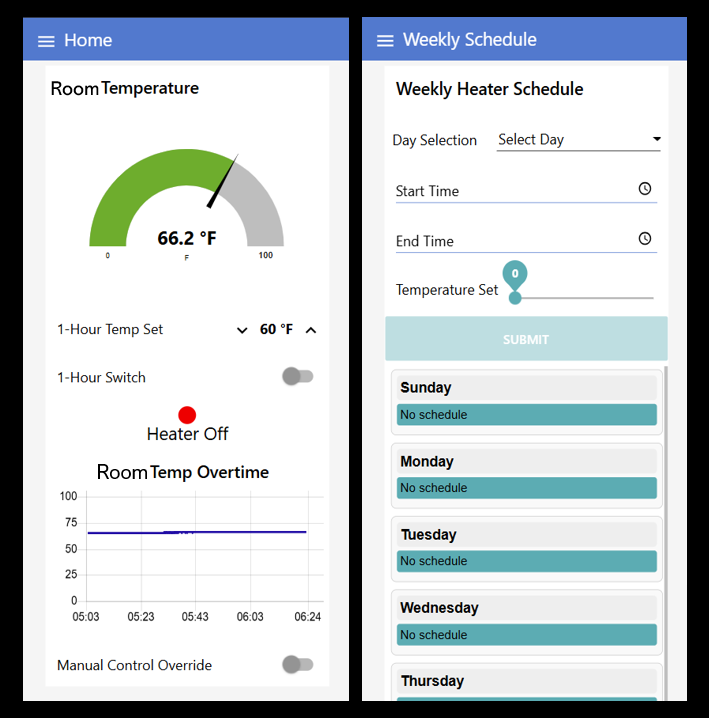
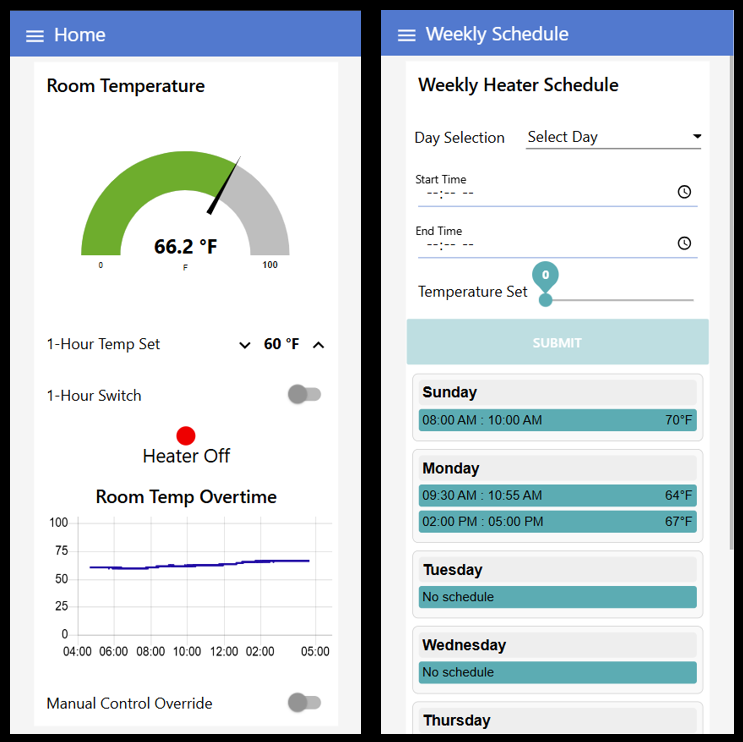
ReadMe updated to now have Safety Disclaimer and Hazards and Authors Note and Future Features. Along with user pages updated.

diff --git a/README.md b/README.md
@@ -1,36 +1,38 @@
 # Dr Infrared Heater Remote Thermostat
 
-Controls a Dr Infared Heater ([DR-996](https://drheaterusa.com/products/dr966-240-volt-hardwired-shop-garage-commercial-heater-3000-watt-6000-watt)) over a local Wi-Fi network.
+Controls a Dr Infrared Heater ([DR-996](https://drheaterusa.com/products/dr966-240-volt-hardwired-shop-garage-commercial-heater-3000-watt-6000-watt)) over a local Wi-Fi network.
 
 This project uses a [Raspberry Pi Zero 2W](https://www.raspberrypi.com/products/raspberry-pi-zero-2-w/) with Raspbian GNU/Linux 12 (bookworm) with [Node-RED](https://nodered.org/) to build the logic of the thermostat.  
-Along with this a relay is used to control the heater to turn it on or off depening on the room temperture.  
+Along with this a relay is used to control the heater to turn it on or off depending on the room temperature.  
   
 ## User Pages  
 ![Common User Pages](./ReadMeAssets/CommonUserPages.png)
 
 # Software Setup
 ## Raspberry Pi
-Install Raspberry Pi OS using [Raspberry Pi Imager](https://www.raspberrypi.com/software/) on to Mirco SD card.
-1. Update and Upgrade OS
+Install the Raspberry Pi OS on to a micro SD card using the [Raspberry Pi Imager](https://www.raspberrypi.com/software/) software.
+1. SSH into your Raspberry Pi
+2. Update and Upgrade OS
 ```bash
 sudo apt update && sudo apt upgrade -y
 ```  
-2. [Install Node-RED](https://nodered.org/docs/getting-started/raspberrypi)  
+3. Install [Node-RED](https://nodered.org/docs/getting-started/raspberrypi)  
 ```bash
 bash <(curl -sL https://github.com/node-red/linux-installers/releases/latest/download/update-nodejs-and-nodered-deb)
 ```  
-3. Enable Node-RED Service to run on boot  
+4. When it asks "Would you like to install the Pi-specific nodes?" select yes
+5. Enable Node-RED Service to run on boot  
 ```bash
 sudo systemctl enable nodered.service
 ```  
-4. Start Node-RED  
+6. Start Node-RED  
 ```bash
 node-red-start
 ```  
 
 ## Node-RED
 ### RPi.GPIO Library Install
-Depending on your raspberry pi OS version you may need to install/update the [RPi.GPIO](https://pypi.org/project/RPi.GPIO/) library. Command to install:
+Depending on your Raspberry Pi OS version you may need to install/update the [RPi.GPIO](https://pypi.org/project/RPi.GPIO/) library. Command to install:
 ```bash
 sudo apt install python3-rpi.gpio
 ```
@@ -41,7 +43,7 @@ sudo reboot
 ```
 
 ### Access and Flows
-1. Find the IP address or Hostname
+1. Find the IP address or hostname
 ```bash
 hostname && hostname -I
 ```  
@@ -73,7 +75,7 @@ For more information on how the Node-RED flows work reference _____
 
 ## nginx and Remote Access
 ### nginx Reverse Proxy (Optional)
-[nginx](https://nginx.org/) is used as a simple reverse proxy to allow a hostname such as `http://<your IP or hostname>.local` to show the Node-RED user interface (ui) dashboard website which defaults to `http://<your IP or hostname>.local:1880/ui/` and makes the overall user exprience simpler. Below are the steps of how to setup nginx.  
+[nginx](https://nginx.org/) is used as a simple reverse proxy to allow a hostname such as `http://<your IP or hostname>.local` to show the Node-RED user interface (ui) dashboard website which defaults to `http://<your IP or hostname>.local:1880/ui/` and makes the user experience seamless. Below are the steps of how to setup nginx.  
 1. Install nginx
 ```bash
 sudo apt update
@@ -125,7 +127,7 @@ sudo systemctl reload nginx
 Note - nginx steps assisted in creation with OpenAI ChatGPT.
 
 ### Remote Access to the Raspberry Pi (Optional)
-A native feature for Raspberry Pi's is their [Raspberry Pi Connect](https://www.raspberrypi.com/software/connect/) software that allows secure remote access to your Raspberry Pi. Below I have quick instructions to get this working using a headless (no desktop) Raspberry Pi but is best to reference the official Raspberry Pi Connect [documentation](https://www.raspberrypi.com/documentation/services/connect.html).  
+A native feature for Raspberry Pi's is their [Raspberry Pi Connect](https://www.raspberrypi.com/software/connect/) software that allows secure remote access to your Raspberry Pi. Below I have steps to get this working using a headless (no desktop) Raspberry Pi but is best to reference the official Raspberry Pi Connect [documentation](https://www.raspberrypi.com/documentation/services/connect.html).  
 
 1. Install Raspberry Pi Connect
 ```bash
@@ -143,20 +145,38 @@ loginctl enable-linger
 ```bash
 rpi-connect signin
 ```
-5. Use the Raspberry Pi Connect website to remotely connect to your Pi.  
+5. Use the Raspberry Pi Connect website to remotely connect to your Pi  
 # Hardware
 ## Bill of Materials (BOM)
 A [bill of materials](./ReadMeAssets/DrInfraredHeaterRemoteThermostat_BOM.xlsx) has been provided and is located in ReadMeAssets folder.
 
 ## Mounting Components
 ### Mounting to the Heater
-The Raspberry Pi Zero 2W, 5v power supply and relays are mounted to the [HeaterBackMountPlate](./ReadMeAssets/HeaterBackMountPlate.stl) then that is attached to the back of the Dr Infared Heater by two short sheet metal self taping screws. This mount was 3D printed with PETG (Polyethylene Terephthalate Glycol) the [HeaterBackMountPlate.stl](./ReadMeAssets/HeaterBackMountPlate.stl) file is located in the ReadMeAssets folder.
+The Raspberry Pi Zero 2W, 5v power supply and relays are mounted to the [HeaterBackMountPlate](./ReadMeAssets/HeaterBackMountPlate.stl) then that is attached to the back of the Dr Infrared Heater by two short sheet metal self taping screws. This mount was 3D printed with PETG (Polyethylene Terephthalate Glycol) the [HeaterBackMountPlate.stl](./ReadMeAssets/HeaterBackMountPlate.stl) file is located in the ReadMeAssets folder.
 
 ### Mounting the Temperature Probe
-The DS18B20 temperature probe should be at ran as far as possible from the heater and about 60 inches (152cm) from the floor. The reason to put the probe as far as possible from the heater is to allow time for the heat to reach the temeperture probe and evenly heat the room. The mount for the temperture probe screwed to the wall was 3D printed with PETG the [TemperatureProbeCase.stl](./ReadMeAssets/TemperatureProbeCase.stl) file is located in the ReadMeAssets folder.
+The DS18B20 temperature probe should be at ran as far as possible from the heater and about 60 inches (152cm) from the floor. The reason to put the probe as far as possible from the heater is to allow time for the heat in the room to reach the temperature probe and evenly warm the room. The mount for the temperature probe is screwed to the wall and was 3D printed with PETG the [TemperatureProbeCase.stl](./ReadMeAssets/TemperatureProbeCase.stl) file is located in the ReadMeAssets folder.
 
 ## Wiring
-To wire the heater you should reference the [DR-966 Manual](./ReadMeAssets\DR-966Manual.pdf) in the ReadMeAssets folder or find it on the Dr Infared Heater [website](https://drheaterusa.com/products/dr966-240-volt-hardwired-shop-garage-commercial-heater-3000-watt-6000-watt) for the DR-966. I have included a [wiring diagram](/ReadMeAssets/WiringDiagram.pdf) for how to wire the heater starting from the heavy gauge wires running from your circuit breaker panel to the heater. The wiring diagram also notes the wire gauges that I used.
+To wire the heater you should reference the [DR-966 Manual](./ReadMeAssets\DR-966Manual.pdf) in the ReadMeAssets folder or find it on the Dr Infrared Heater [website](https://drheaterusa.com/products/dr966-240-volt-hardwired-shop-garage-commercial-heater-3000-watt-6000-watt) for the DR-966. I have included a [wiring diagram](/ReadMeAssets/WiringDiagram.pdf) for how to wire the heater starting from the heavy gauge wires running from your circuit breaker panel to the heater. The wiring diagram also notes the wire gauges that I used.  
 
-## Safety
-Needs info _____
+># Safety Disclaimer and Hazards
+This project is great for learning about the Linux command line interface (CLI), Node-RED, and the Internet of Things (IoT). Working with AC mains electricity, heating elements, and temperature controlled systems can be dangerous and may cause electrocution, burns, fire, property damage or violations of local electrical code if done incorrectly. __Always use safe practices for this project.__ The author assumes no responsibility, liability or fault for any damage, injury or other harm from the use of this project.
+
+### Hazards  
+- Electrical Hazards: electrocution, electrical shock, burns and fire  
+- Heating Element Hazards: hot surfaces, burns and fire
+
+### Preventing Hazards
+- Check Component Ratings: Ensure components can handle the appropriate voltages and currents.
+- Wire Inspection: Ensure wiring is properly insulated and no terminals are loose or exposed.
+- __Hardware Shutoff__: Ensure you can easily and safely shutoff all power to the system, for example using a circuit breaker.
+- __Test Test Test__: Never leave the system unattended when testing and monitor it closely.
+- Follow local codes: Ensure your project complies with local electrical standards and regulations.
+
+># Authors Note and Future Features
+Finally, don't be dumb if you do not understand the dangers listed above don't do this project. I have done my best to test this system to make sure that the worst case scenario doesn't happen but cannot 100% guarantee the safety of this system.
+
+### Future Features
+- Moving from node-red-dashboard to flowfuse/node-red-dashboard.
+- Redesign to use solid state relays (SSRs) instead of mechanical relays.
